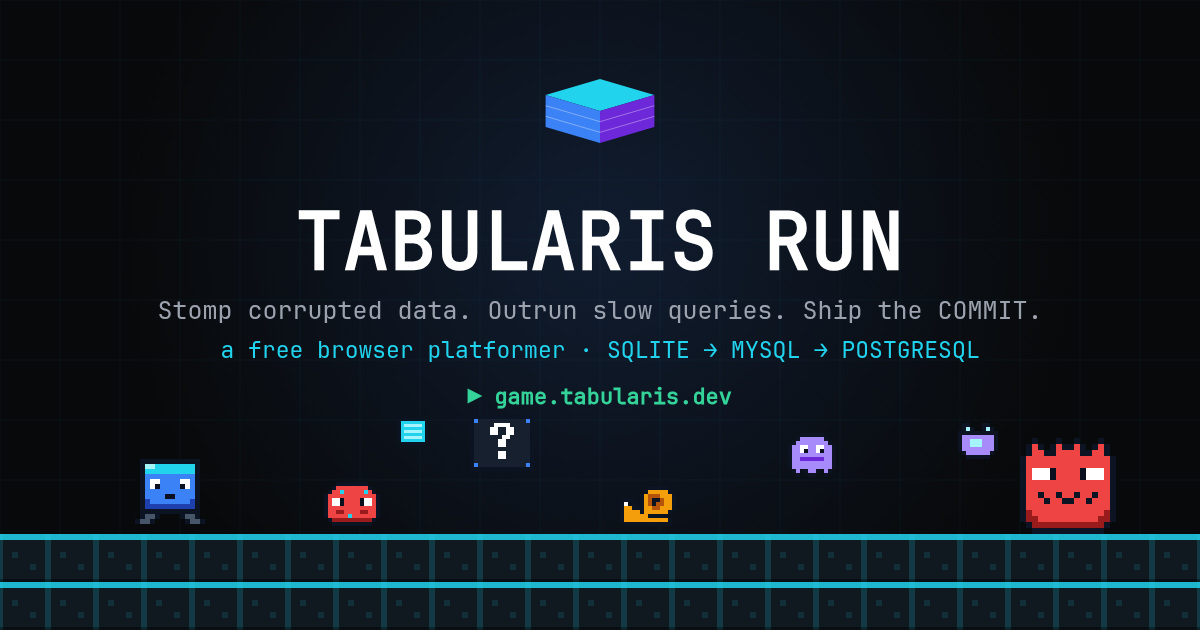
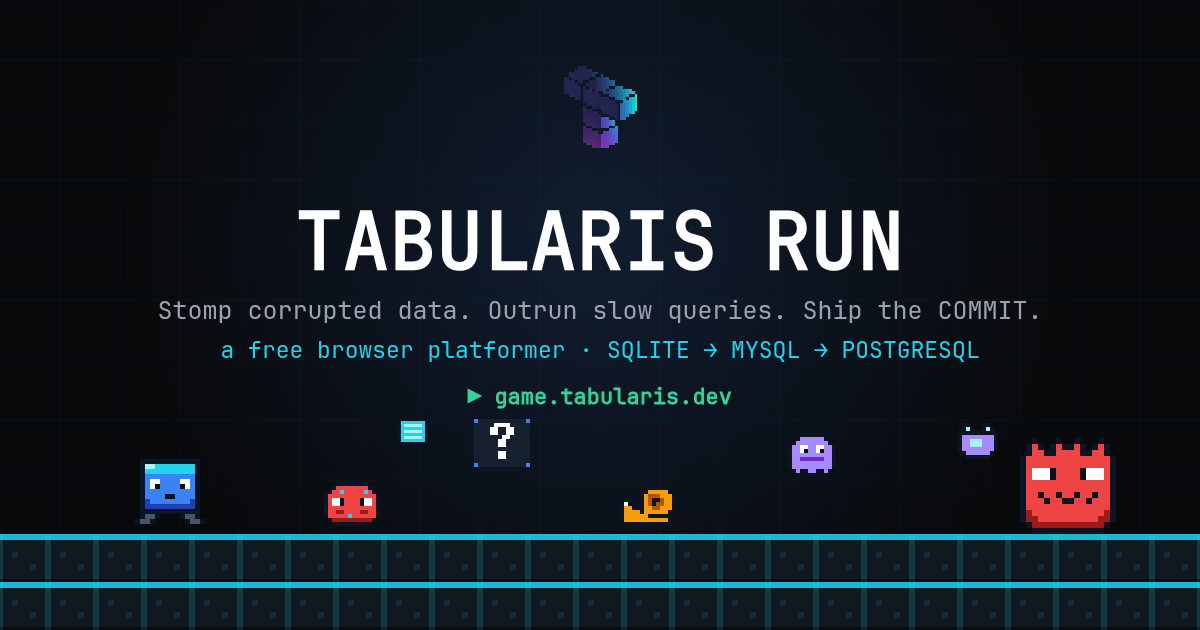
Use real Tabularis brand mark in the OG card
og.html drew the procedural cube fallback; switch to drawLogoPixel and wait
for the inline brand image to decode before rendering, then regenerate
public/og.png with the actual T logo.

Changed region(s): [[0.4317, 0.0905, 0.555, 0.2413]]

diff --git a/test/og.html b/test/og.html
@@ -6,68 +6,77 @@
 <body>
 <canvas id="og" width="1200" height="630"></canvas>
 <script type="module">
-import { buildSprites, drawLogoCube } from '../js/sprites.js';
-import { WORLDS } from '../js/constants.js';
+import { buildSprites, drawLogoPixel } from '../js/sprites.js';
 
 const ctx = document.getElementById('og').getContext('2d');
 ctx.imageSmoothingEnabled = false;
 const S = buildSprites();
 
-// background
-ctx.fillStyle = '#08090a';
-ctx.fillRect(0, 0, 1200, 630);
-ctx.save();
-ctx.globalAlpha = 0.05;
-ctx.strokeStyle = '#22d3ee';
-ctx.beginPath();
-for (let x = 0; x < 1200; x += 60) { ctx.moveTo(x, 0); ctx.lineTo(x, 630); }
-for (let y = 0; y < 630; y += 60) { ctx.moveTo(0, y); ctx.lineTo(1200, y); }
-ctx.stroke();
-ctx.restore();
-const glow = ctx.createRadialGradient(600, 240, 0, 600, 240, 480);
-glow.addColorStop(0, 'rgba(59,130,246,0.16)');
-glow.addColorStop(1, 'rgba(59,130,246,0)');
-ctx.fillStyle = glow;
-ctx.fillRect(0, 0, 1200, 630);
+function render() {
+  // background
+  ctx.fillStyle = '#08090a';
+  ctx.fillRect(0, 0, 1200, 630);
+  ctx.save();
+  ctx.globalAlpha = 0.05;
+  ctx.strokeStyle = '#22d3ee';
+  ctx.beginPath();
+  for (let x = 0; x < 1200; x += 60) { ctx.moveTo(x, 0); ctx.lineTo(x, 630); }
+  for (let y = 0; y < 630; y += 60) { ctx.moveTo(0, y); ctx.lineTo(1200, y); }
+  ctx.stroke();
+  ctx.restore();
+  const glow = ctx.createRadialGradient(600, 240, 0, 600, 240, 480);
+  glow.addColorStop(0, 'rgba(59,130,246,0.16)');
+  glow.addColorStop(1, 'rgba(59,130,246,0)');
+  ctx.fillStyle = glow;
+  ctx.fillRect(0, 0, 1200, 630);
 
-// logo + copy
-drawLogoCube(ctx, 600, 110, 64, 10);
-ctx.textAlign = 'center';
-ctx.textBaseline = 'middle';
-ctx.fillStyle = '#ffffff';
-ctx.font = 'bold 78px "JetBrains Mono", monospace';
-ctx.fillText('TABULARIS RUN', 600, 248);
-ctx.fillStyle = '#9ca3af';
-ctx.font = '25px "JetBrains Mono", monospace';
-ctx.fillText('Stomp corrupted data. Outrun slow queries. Ship the COMMIT.', 600, 312);
-ctx.fillStyle = '#22d3ee';
-ctx.font = '23px "JetBrains Mono", monospace';
-ctx.fillText('a free browser platformer · SQLITE → MYSQL → POSTGRESQL', 600, 352);
-ctx.fillStyle = '#34d399';
-ctx.font = 'bold 22px "JetBrains Mono", monospace';
-ctx.fillText('▶ game.tabularis.dev', 600, 398);
+  // logo + copy — the real Tabularis brand mark (t=0 → no bob, crisp shot)
+  drawLogoPixel(ctx, 600, 108, 48, 0);
+  ctx.textAlign = 'center';
+  ctx.textBaseline = 'middle';
+  ctx.fillStyle = '#ffffff';
+  ctx.font = 'bold 78px "JetBrains Mono", monospace';
+  ctx.fillText('TABULARIS RUN', 600, 248);
+  ctx.fillStyle = '#9ca3af';
+  ctx.font = '25px "JetBrains Mono", monospace';
+  ctx.fillText('Stomp corrupted data. Outrun slow queries. Ship the COMMIT.', 600, 312);
+  ctx.fillStyle = '#22d3ee';
+  ctx.font = '23px "JetBrains Mono", monospace';
+  ctx.fillText('a free browser platformer · SQLITE → MYSQL → POSTGRESQL', 600, 352);
+  ctx.fillStyle = '#34d399';
+  ctx.font = 'bold 22px "JetBrains Mono", monospace';
+  ctx.fillText('▶ game.tabularis.dev', 600, 398);
 
-// ground strip + cast
-const G = 48; // tile scale 3x
-for (let r = 0; r < 2; r++) {
-  for (let i = 0; i < 25; i++) {
-    ctx.drawImage(S.tiles[0].ground, i * G, 630 - G * 2 + r * G, G, G);
+  // ground strip + cast
+  const G = 48; // tile scale 3x
+  for (let r = 0; r < 2; r++) {
+    for (let i = 0; i < 25; i++) {
+      ctx.drawImage(S.tiles[0].ground, i * G, 630 - G * 2 + r * G, G, G);
+    }
   }
+  const ground = 630 - G * 2;
+  const put = (img, x, scale, lift = 0) =>
+    ctx.drawImage(img, x, ground - img.height * scale - lift, img.width * scale, img.height * scale);
+
+  put(S.player.run1, 130, 5);
+  put(S.blob[0], 320, 4);
+  put(S.coin, 395, 3, 80);
+  put(S.qblock, 470, 4, 55);
+  put(S.snail[0], 620, 4);
+  put(S.wisp[0], 780, 4, 45);
+  put(S.plugin, 950, 4, 75);
+  put(S.boss.red, 1020, 6);
 }
-const ground = 630 - G * 2;
-const put = (img, x, scale, lift = 0) =>
-  ctx.drawImage(img, x, ground - img.height * scale - lift, img.width * scale, img.height * scale);
 
-put(S.player.run1, 130, 5);
-put(S.blob[0], 320, 4);
-put(S.coin, 395, 3, 80);
-put(S.qblock, 470, 4, 55);
-put(S.snail[0], 620, 4);
-put(S.wisp[0], 780, 4, 45);
-put(S.plugin, 950, 4, 75);
-put(S.boss.red, 1020, 6);
-
-console.log('OG READY');
+// The brand logo is an inline data-URI image that decodes asynchronously after
+// import; wait for fonts + a couple frames so drawLogoPixel uses the real mark
+// instead of falling back to the procedural cube, then render once.
+(async () => {
+  await document.fonts.ready;
+  await new Promise((r) => requestAnimationFrame(() => requestAnimationFrame(r)));
+  render();
+  console.log('OG READY');
+})();
 </script>
 </body>
 </html>